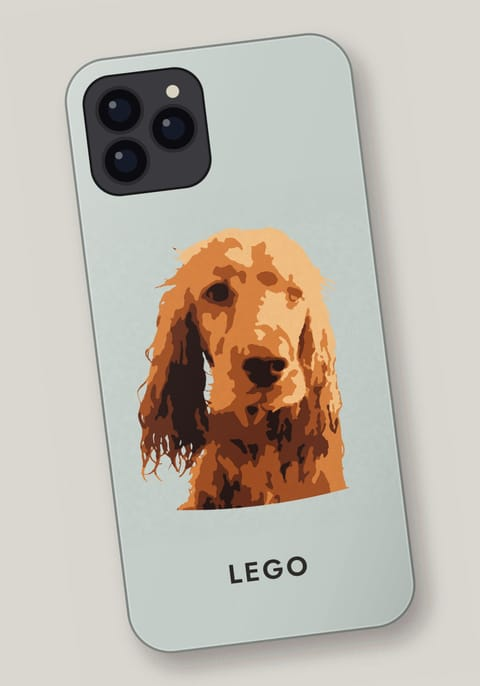
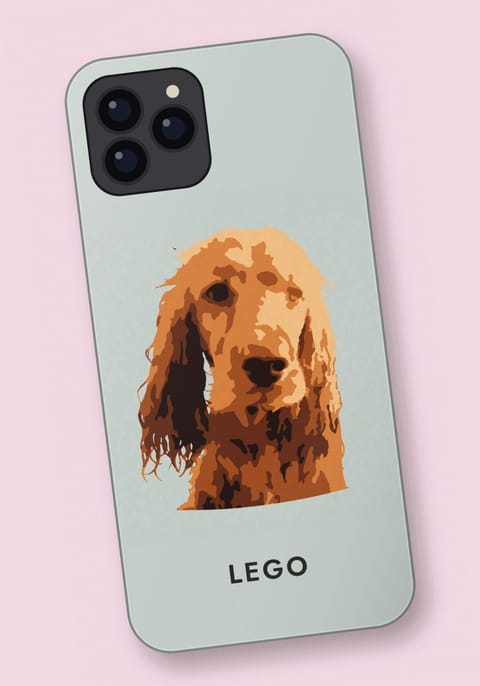
Case mockup on a light pink surface: the mint case stands out
Claude-Session: https://claude.ai/code/session_01UCUSKhpSLerF4seEvYFAdx

diff --git a/portretai/src/mockup-products.js b/portretai/src/mockup-products.js
@@ -251,7 +251,7 @@ export async function buildCaseMockup(posterPng, size, phoneModel) {
   const scene =
     `<svg xmlns="http://www.w3.org/2000/svg" width="${W}" height="${H}">` +
     `<defs><filter id="sh" x="-30%" y="-30%" width="160%" height="160%"><feGaussianBlur stdDeviation="26"/></filter></defs>` +
-    `<rect width="${W}" height="${H}" fill="#d9d7d0"/>` +
+    `<rect width="${W}" height="${H}" fill="#f1d9e4"/>` +
     `<rect x="${pad + 26}" y="${pad + 40}" width="${cw}" height="${ch}" rx="${rad}" fill="#2e2418" fill-opacity="0.35" filter="url(#sh)"/>` +
     `</svg>`;
   // Linen: crossed fine threads.
@@ -259,7 +259,7 @@ export async function buildCaseMockup(posterPng, size, phoneModel) {
   const base = await sharp(Buffer.from(scene)).composite([{ input: linen, blend: 'soft-light' }]).png().toBuffer();
   const flat = await sharp(base).composite([{ input: body, left: pad, top: pad }]).png().toBuffer();
   return sharp(flat)
-    .rotate(-7, { background: '#d9d7d0' })
+    .rotate(-7, { background: '#f1d9e4' })
     .resize({ width: 1400, height: 2000, fit: 'cover' })
     .jpeg({ quality: 86, mozjpeg: true })
     .toBuffer();
